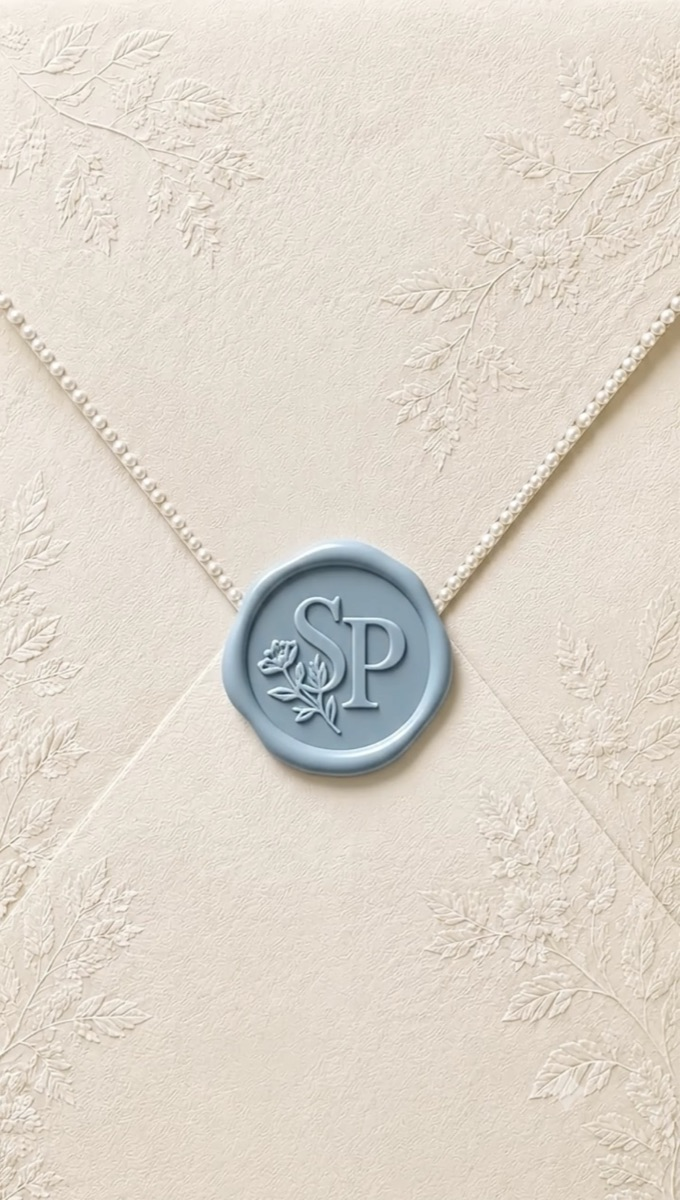
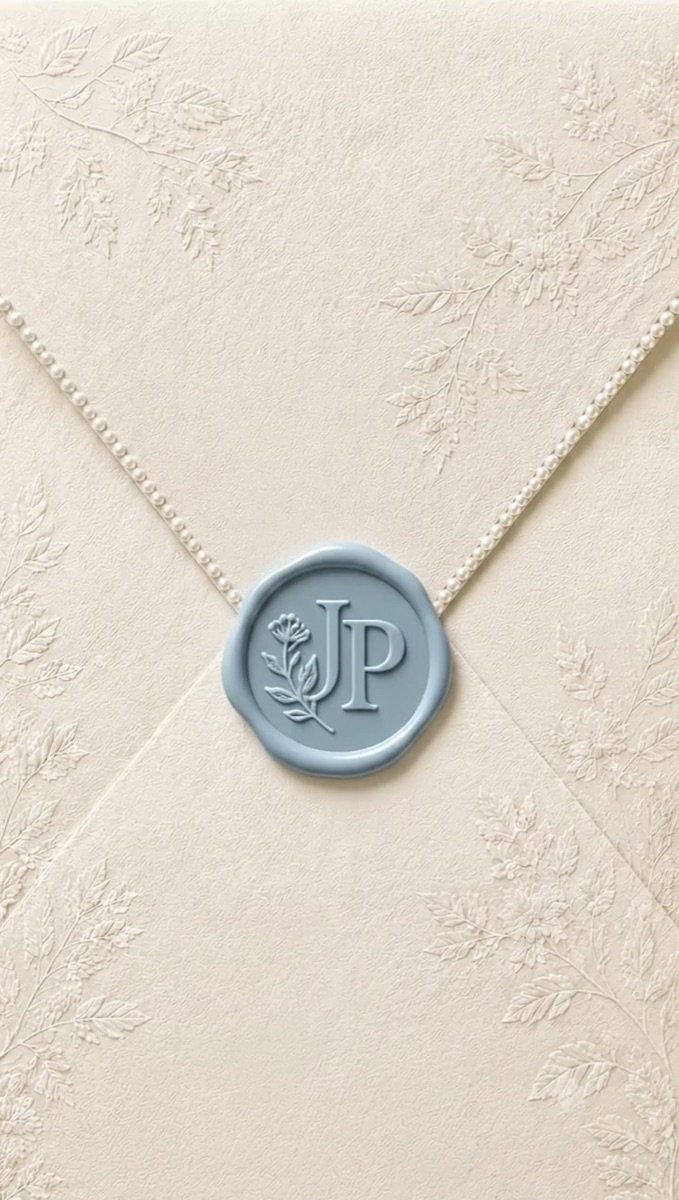
Configure exact envelope wax seal Open Graph preview card for WhatsApp sharing

diff --git a/index.html b/index.html
@@ -10,19 +10,21 @@
   <meta name="description" content="Sujith & Pratiksha Wedding Celebration — Monday, 21st December 2026, Ashirwad Celebration, Wardha" />
   <title>Sujith &amp; Pratiksha — Wedding Celebration</title>
   <meta property="og:type" content="website" />
-  <meta property="og:url" content="https://www.sujithwedspratiksha.in/" />
-  <meta property="og:title" content="Sujith & Pratiksha — Wedding Celebration" />
-  <meta property="og:description" content="Sujith & Pratiksha Wedding Celebration — Monday, 21st December 2026, Ashirwad Celebration, Wardha" />
-  <meta property="og:image" content="https://www.sujithwedspratiksha.in/custom-websites/sujith-weds-pratiksha/assets/og/OG_Sujith.jpeg" />
-  <meta property="og:image:secure_url" content="https://www.sujithwedspratiksha.in/custom-websites/sujith-weds-pratiksha/assets/og/OG_Sujith.jpeg" />
+  <meta property="og:site_name" content="Sujith &amp; Pratiksha Wedding" />
+  <meta property="og:url" content="https://sujith-pratiksha-wedding.vercel.app/" />
+  <meta property="og:title" content="Sujith &amp; Pratiksha — Wedding Celebration" />
+  <meta property="og:description" content="Sujith &amp; Pratiksha Wedding Celebration — Monday, 21st December 2026, Ashirwad Celebration, Wardha" />
+  <meta property="og:image" content="https://sujith-pratiksha-wedding.vercel.app/custom-websites/sujith-weds-pratiksha/assets/og/OG_Sujith.jpeg?v=4" />
+  <meta property="og:image:secure_url" content="https://sujith-pratiksha-wedding.vercel.app/custom-websites/sujith-weds-pratiksha/assets/og/OG_Sujith.jpeg?v=4" />
   <meta property="og:image:type" content="image/jpeg" />
-  <meta property="og:image:width" content="680" />
+  <meta property="og:image:width" content="679" />
   <meta property="og:image:height" content="1200" />
-  <meta property="og:image:alt" content="Sujith & Pratiksha Wedding Celebration" />
+  <meta property="og:image:alt" content="Sujith and Pratiksha Wedding Celebration" />
+  <link rel="image_src" href="https://sujith-pratiksha-wedding.vercel.app/custom-websites/sujith-weds-pratiksha/assets/og/OG_Sujith.jpeg?v=4" />
   <meta name="twitter:card" content="summary_large_image" />
-  <meta name="twitter:title" content="Sujith & Pratiksha — Wedding Celebration" />
-  <meta name="twitter:description" content="Sujith & Pratiksha Wedding Celebration — Monday, 21st December 2026, Ashirwad Celebration, Wardha" />
-  <meta name="twitter:image" content="https://www.sujithwedspratiksha.in/custom-websites/sujith-weds-pratiksha/assets/og/OG_Sujith.jpeg" />
+  <meta name="twitter:title" content="Sujith &amp; Pratiksha — Wedding Celebration" />
+  <meta name="twitter:description" content="Sujith &amp; Pratiksha Wedding Celebration — Monday, 21st December 2026, Ashirwad Celebration, Wardha" />
+  <meta name="twitter:image" content="https://sujith-pratiksha-wedding.vercel.app/custom-websites/sujith-weds-pratiksha/assets/og/OG_Sujith.jpeg?v=4" />
   <link rel="preconnect" href="https://fonts.googleapis.com" />
   <link rel="preconnect" href="https://fonts.gstatic.com" crossorigin />
   <link href="https://fonts.googleapis.com/css2?family=Cinzel:wght@400;500;600;700;800;900&family=Playfair+Display:ital,wght@0,400;0,500;0,700;1,400;1,500;1,700&family=Pinyon+Script&family=Cormorant+Garamond:ital,wght@0,300;0,400;0,500;0,600;1,300;1,400;1,500&family=Great+Vibes&family=Jost:wght@200;300;400&display=swap" rel="stylesheet" />

diff --git a/src/utils/weddingData.ts b/src/utils/weddingData.ts
@@ -47,7 +47,7 @@ export function getTimeRemaining() {
 
 export function shareOnWhatsApp() {
   const text = encodeURIComponent(
-    `You are cordially invited to the wedding celebration of Sujith & Pratiksha!\n\n📅 21 December 2026 | 11:00 AM\n📍 Ashirwad Celebration, Wardha, Maharashtra\n\n🔗 https://www.sujithwedspratiksha.in/\n\nWe would love to celebrate this special day with you.\n\nWith Love,\nSujith & Pratiksha`
+    `You are cordially invited to the wedding celebration of Sujith & Pratiksha!\n\n📅 21 December 2026 | 11:00 AM\n📍 Ashirwad Celebration, Wardha, Maharashtra\n\n🔗 https://sujith-pratiksha-wedding.vercel.app/\n\nWe would love to celebrate this special day with you.\n\nWith Love,\nSujith & Pratiksha`
   );
   window.open(`https://wa.me/?text=${text}`, '_blank');
 }
